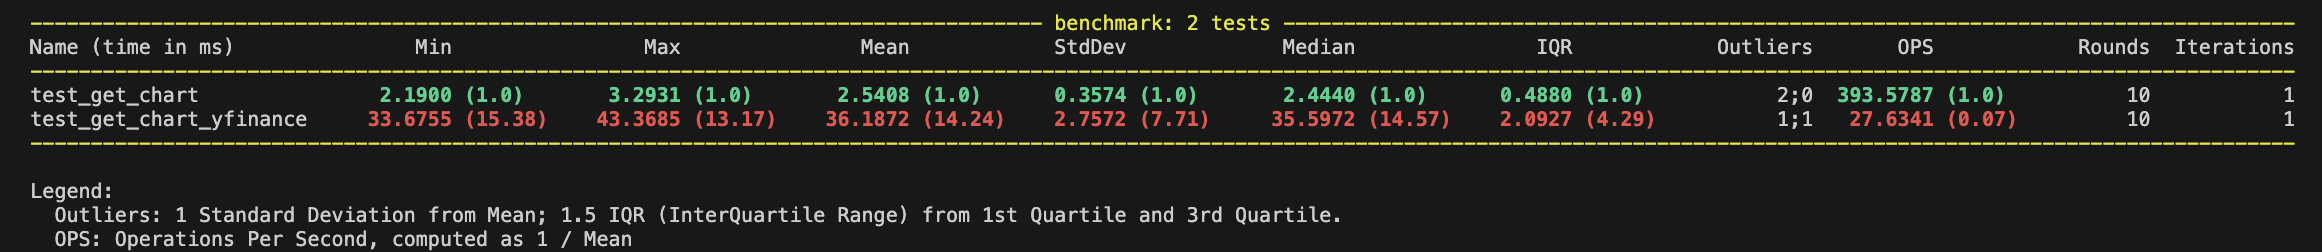
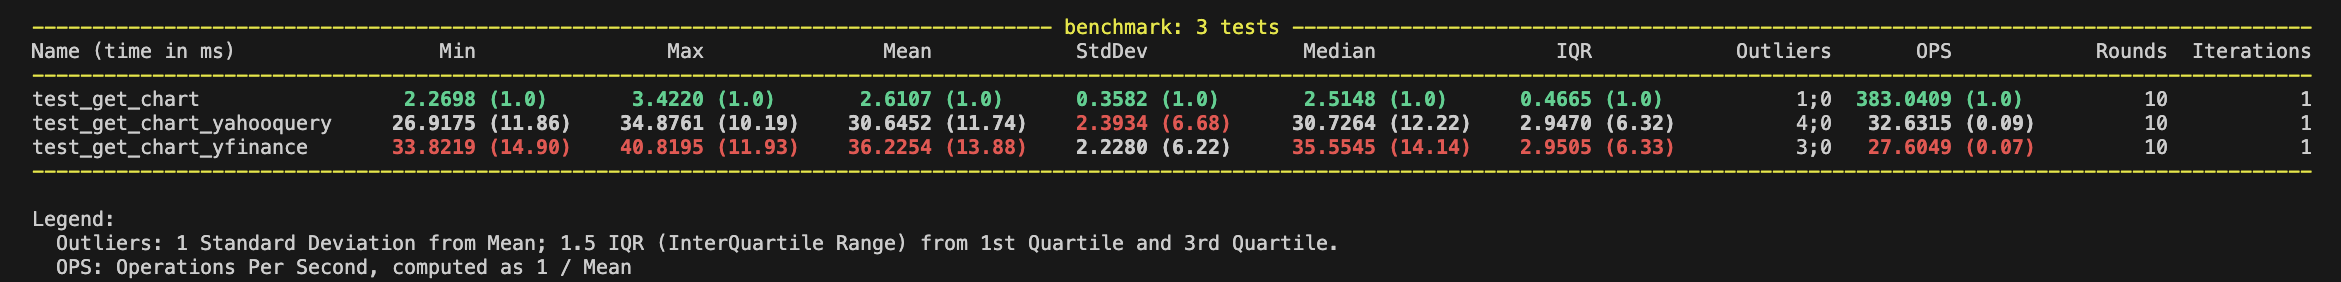
added yahooquery into performance tests

diff --git a/tests/performance/test_symbol.py b/tests/performance/test_symbol.py
@@ -7,10 +7,11 @@ from curl_cffi.requests import Response
 from curl_cffi.requests.exceptions import HTTPError
 from pytest_benchmark.fixture import BenchmarkFixture
 from pytest_mock import MockerFixture
-from yfinance import Ticker
+import yfinance as yf
+import yahooquery as yq
 
 from tests._utils import _get_fixture_path, _get_json_fixture, _mock_response
-from yafin import Symbol
+import yafin
 
 BENCHMARK_KWARGS = dict(rounds=10, iterations=1, warmup_rounds=1)
 
@@ -106,15 +107,15 @@ class TestPerformanceSymbol:
     """Unit tests for yafin.Symbol."""
 
     @pytest.fixture
-    def symbol(self) -> Generator[Symbol, None, None]:
+    def symbol(self) -> Generator[yafin.Symbol, None, None]:
         """Fresh new instance of Symbol for each tests."""
-        with Symbol('META') as symbol:
+        with yafin.Symbol('META') as symbol:
             yield symbol
 
     @pytest.mark.performance
     def test_get_chart(
         self,
-        symbol: Symbol,
+        symbol: yafin.Symbol,
         mocker: MockerFixture,
         benchmark: BenchmarkFixture,
         chart_json_mock: dict[str, Any],
@@ -139,16 +140,16 @@ class TestPerformanceYFinance:
     """Performance tests for yafin.stonk module."""
 
     @pytest.fixture
-    def ticker(self) -> Generator[Ticker, None, None]:
+    def ticker(self) -> Generator[yf.Ticker, None, None]:
         """Fixture for Ticker."""
         session = requests.Session(impersonate='chrome')
-        yield Ticker('META', session=session)
+        yield yf.Ticker('META', session=session)
         session.close()
 
     @pytest.mark.performance
     def test_get_chart_yfinance(
         self,
-        ticker: Ticker,
+        ticker: yf.Ticker,
         mocker: MockerFixture,
         benchmark: BenchmarkFixture,
         chart_json_mock: dict[str, Any],
@@ -164,6 +165,35 @@ class TestPerformanceYFinance:
         result_df = benchmark.pedantic(run, **BENCHMARK_KWARGS)
         # result_df.to_csv('yfinance.csv')
         # expected_chart_df.to_csv('expected.csv')
+
+        # assert result_df.columns.to_list() == expected_chart_df.columns.to_list()
+        # assert result_df.index.to_list() == expected_chart_df.index.to_list()
+        # assert result_df.compare(expected_chart_df).empty
+
+class TestPerformanceYahooQuery:
+    """Performance tests for yafin.stonk module."""
+
+    @pytest.fixture
+    def ticker(self) -> Generator[yq.Ticker, None, None]:
+        """Fixture for Ticker."""
+        yield yq.Ticker('META')
+
+    @pytest.mark.performance
+    def test_get_chart_yahooquery(
+        self,
+        ticker: yq.Ticker,
+        mocker: MockerFixture,
+        benchmark: BenchmarkFixture,
+        chart_json_mock: dict[str, Any],
+        expected_chart_df: pd.DataFrame,
+    ) -> None:
+        """Test history method."""
+
+        def run() -> pd.DataFrame:
+            return ticker.history(period='1y', interval='1d')
+
+        result_df = benchmark.pedantic(run, **BENCHMARK_KWARGS)
+        # result_df.to_csv('yahooquery.csv')
 
         # assert result_df.columns.to_list() == expected_chart_df.columns.to_list()
         # assert result_df.index.to_list() == expected_chart_df.index.to_list()

diff --git a/README.md b/README.md
@@ -9,7 +9,7 @@ Unofficial [Yahoo!Ⓡ finance](https://finance.yahoo.com) API client.
 - Not returning pandas dataframes (because why?).
 - Uses caching and utilizes singleton pattern in symbol class to save resources.
 - Minimal and build on [curl-cffi](https://github.com/lexiforest/curl_cffi)
-- More, than 10x faster, than other Yahoo finance clients. Run the tests yourself - `make test-perf` (All tests running synchronously and returning pandas DataFrame.)
+- More, than 15x faster, than other Yahoo finance clients. Run the tests yourself - `make test-perf` (All tests running synchronously and returning pandas DataFrame.)
 
 ![test-perf](docs/test-perf.png)
 
